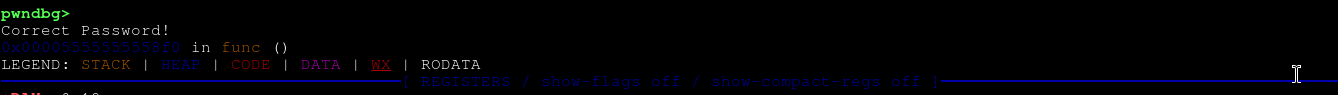
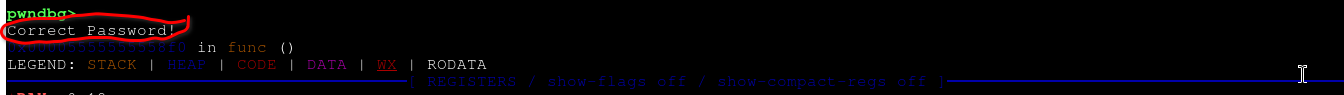
Add files via upload

Changed region(s): [[0.0, 0.0, 0.3677, 1.0], [0.2758, 0.8, 0.7048, 0.9053]]

diff --git a/PwnCollege/Format-strings-vulnerability/WriteUp.md b/PwnCollege/Format-strings-vulnerability/WriteUp.md
@@ -1,4 +1,4 @@
-# prize firt challenge Format-strings-vulnerability
+# solve firt challenge Format-strings-vulnerability
 > in PwnCollege
 
 start write date : 04/06/2026
